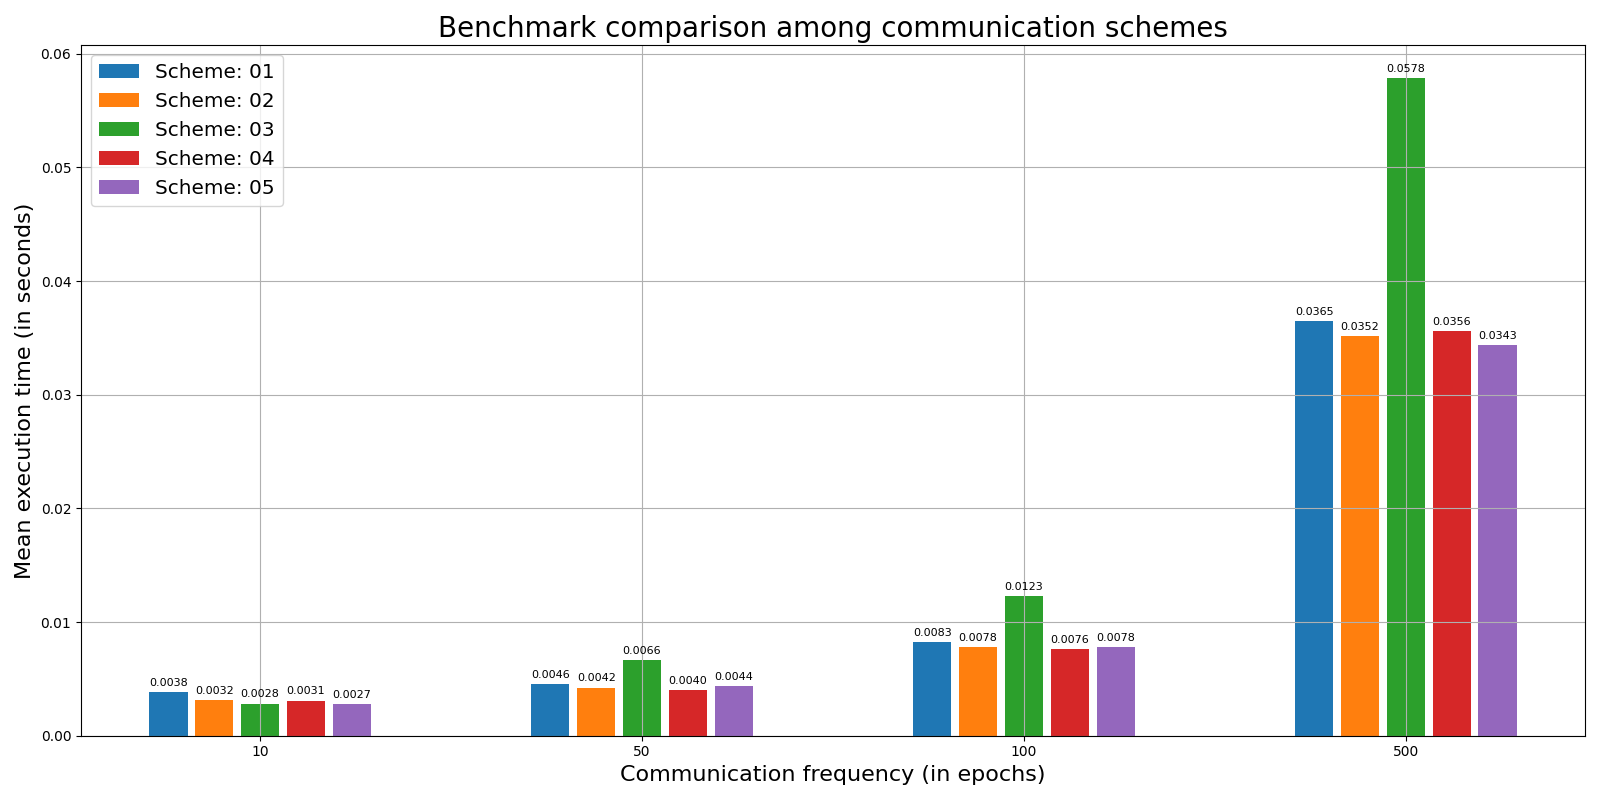
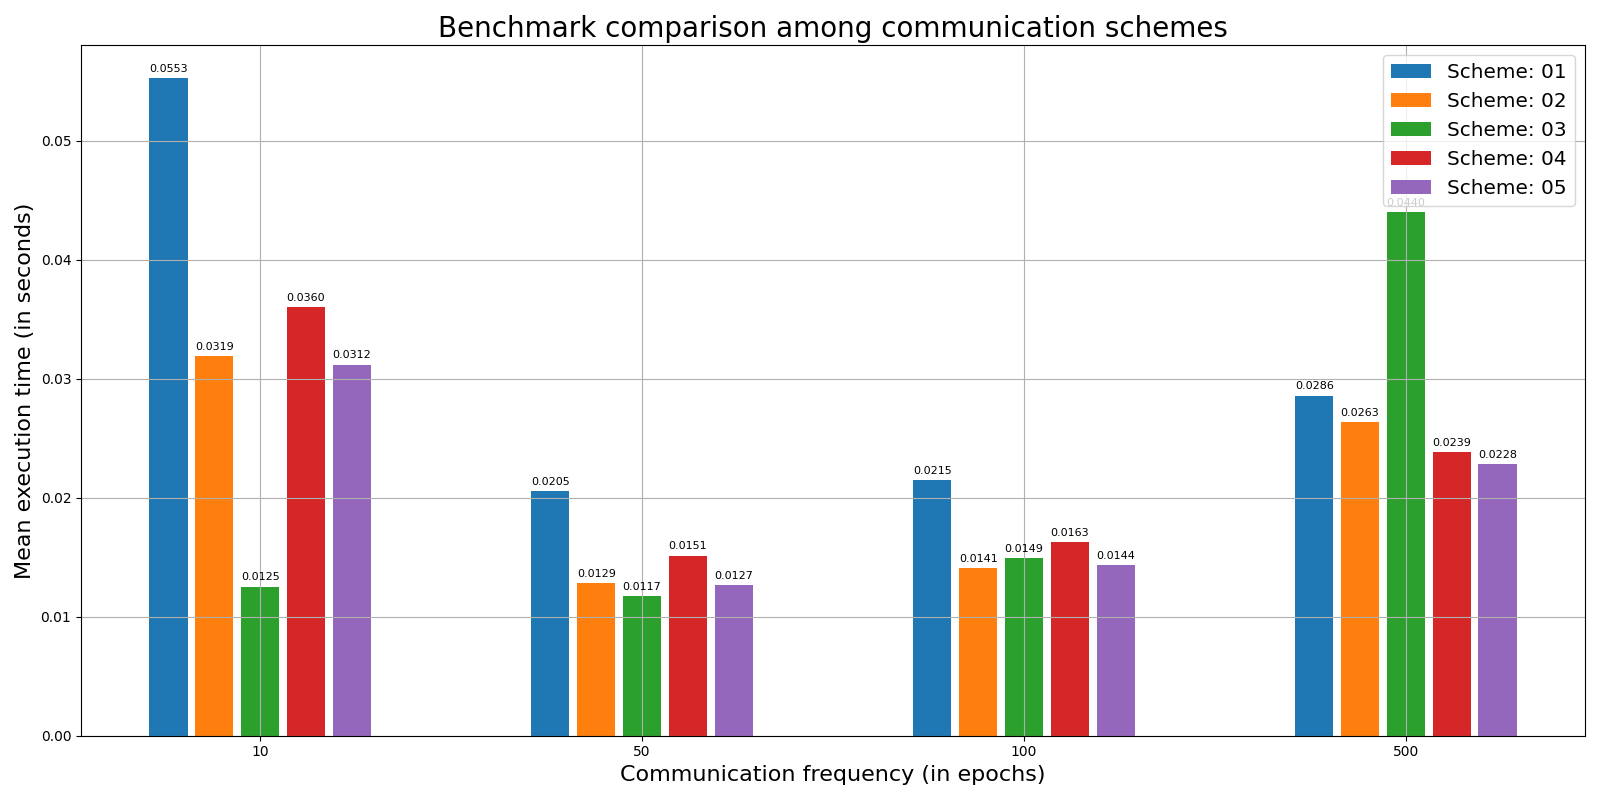
updated / added results

diff --git a/README.md b/README.md
@@ -178,10 +178,18 @@ Host *
 ```
 ## Benchmark Vergleich
 
-In unten stehender Grafik ist ein Benchmark Vergleich über alle implementierten Kommunikationsprotokolle zu sehen.
+In unten stehenden Grafiken sind Benchmark Vergleiche über alle implementierten Kommunikationsprotokolle für die verschiedenen Datensätze zu sehen.
+
+<a href="data/data_debug/" target="_blank">`data_debug/`</a>
 
 <h2 align="center">
   <img src="results/data_debug/benchmark_distr.png" alt="Benchmark Vergleich" width="800px" />
+</h2>
+
+<a href="data/data_small/" target="_blank">`data_small/`</a>
+
+<h2 align="center">
+  <img src="results/data_small/benchmark_distr.png" alt="Benchmark Vergleich" width="800px" />
 </h2>
 
 ---
